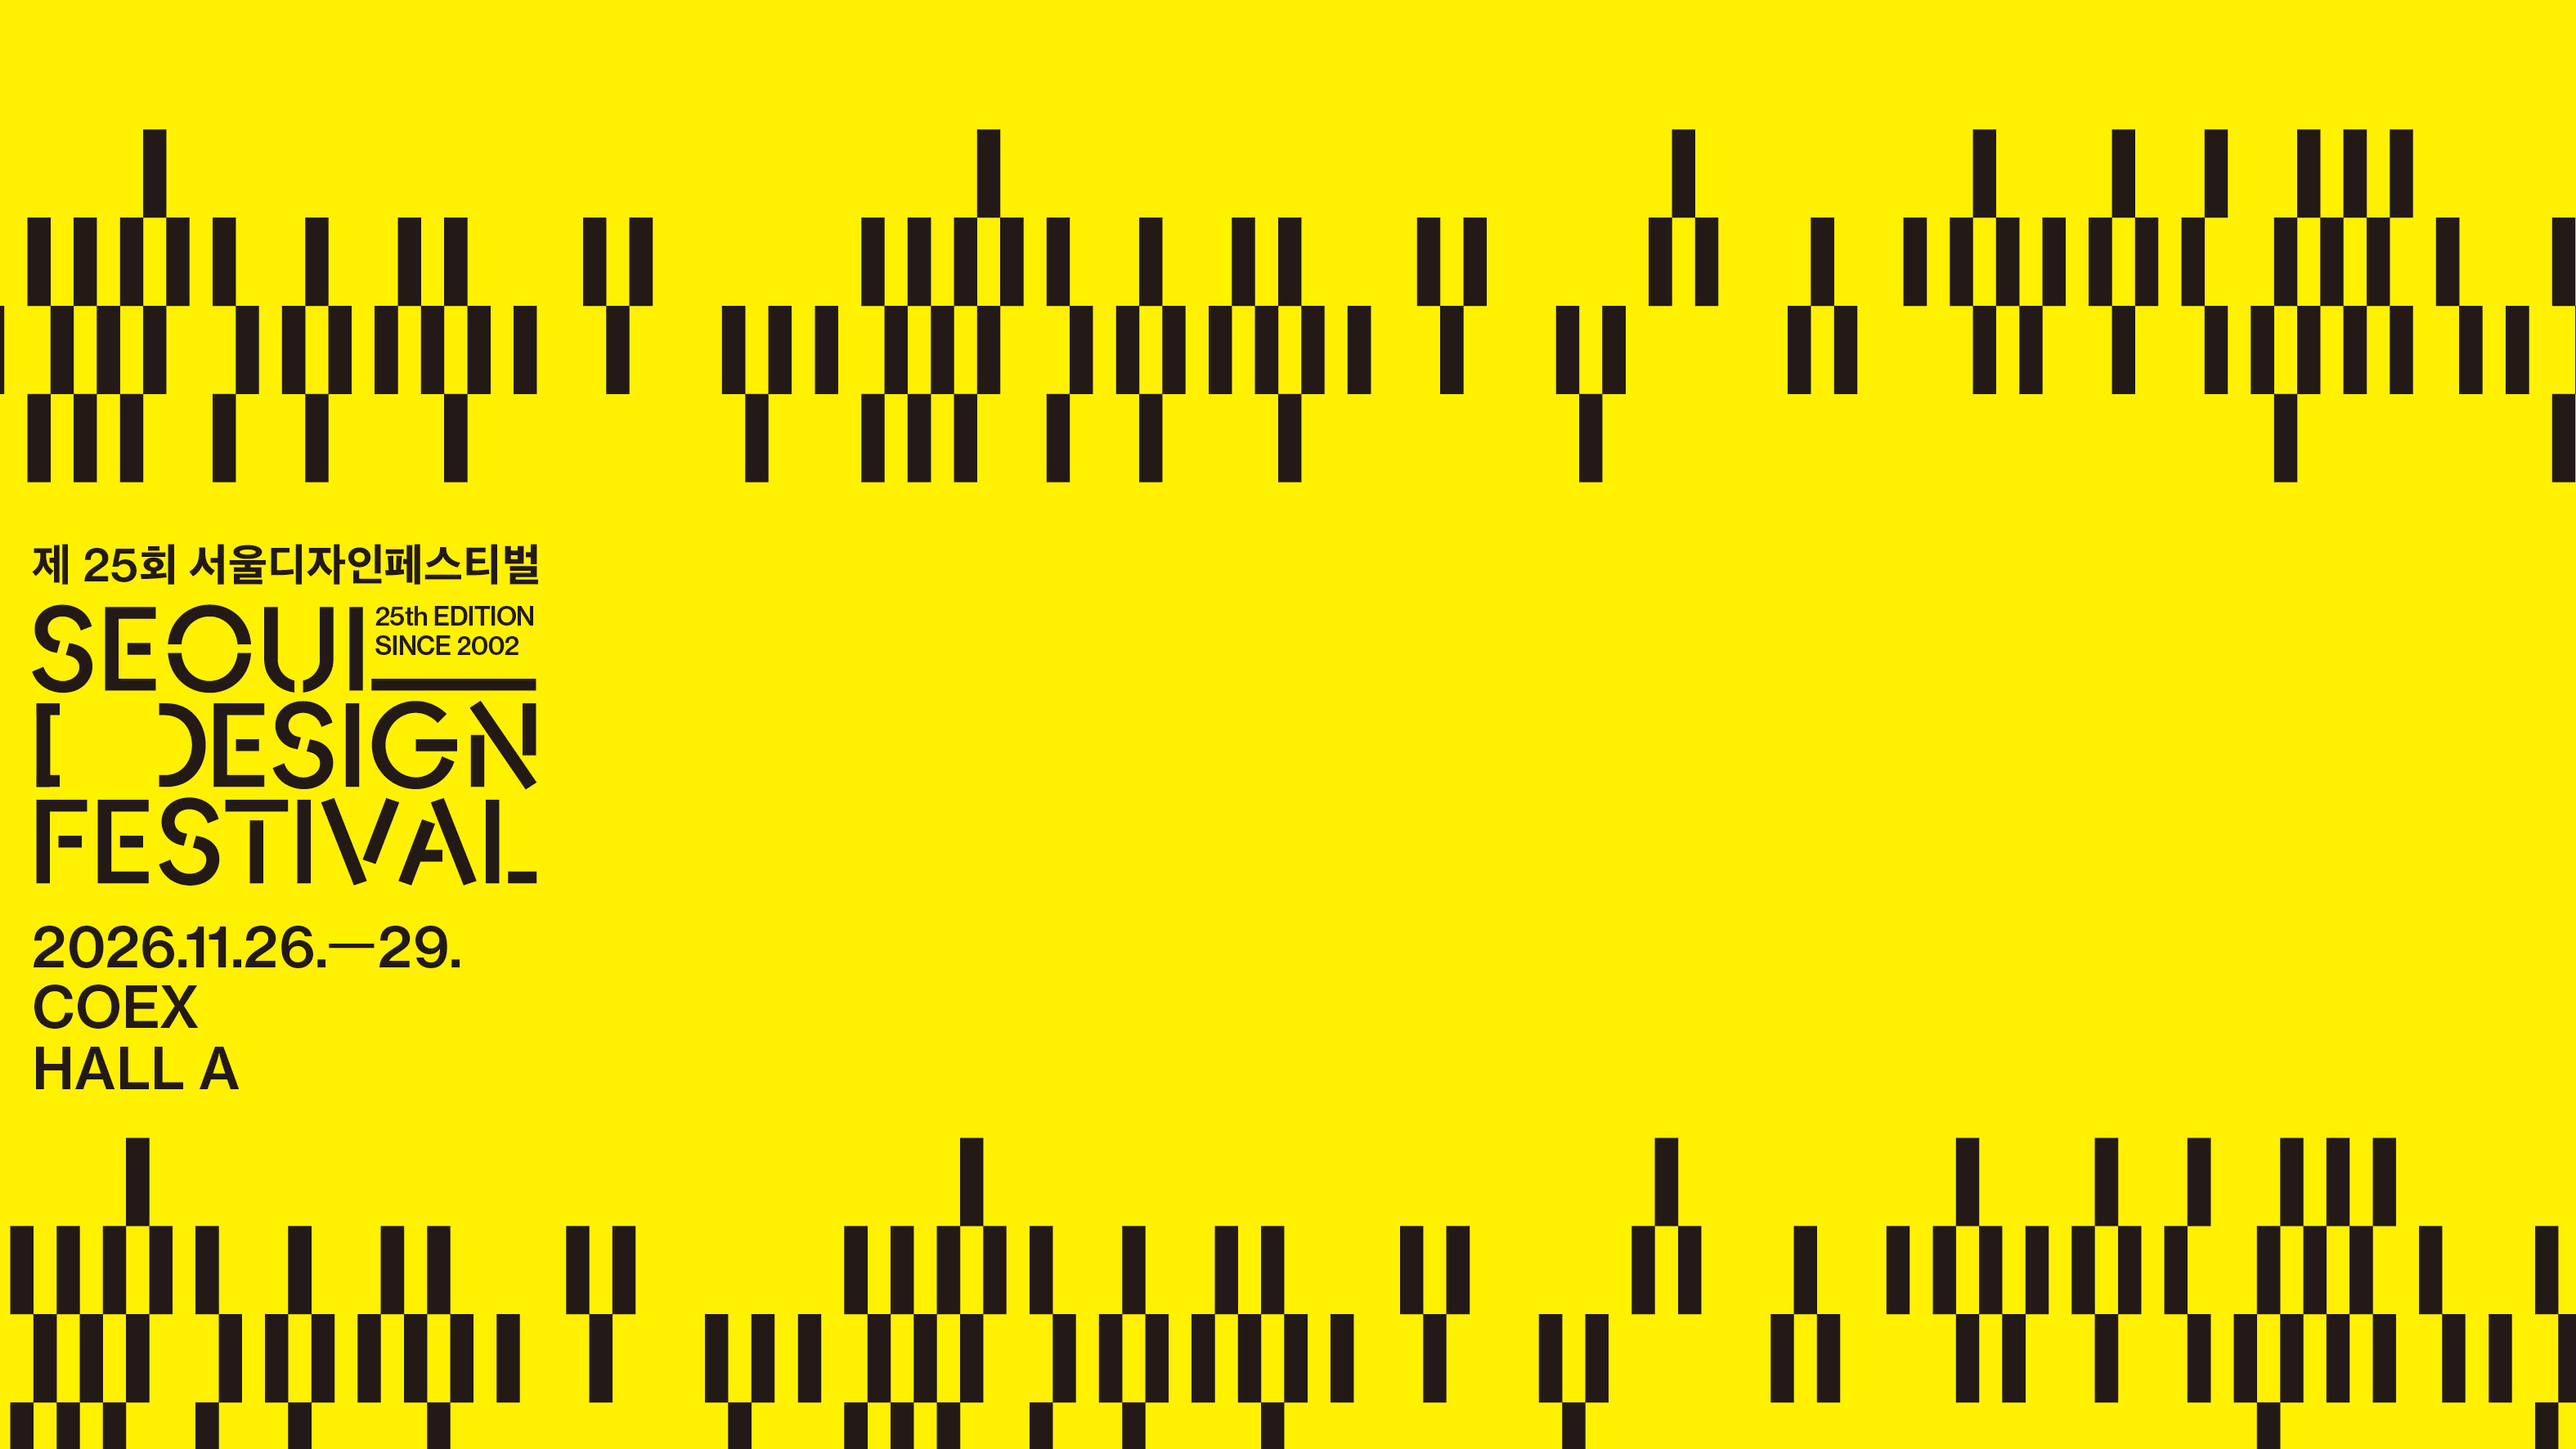
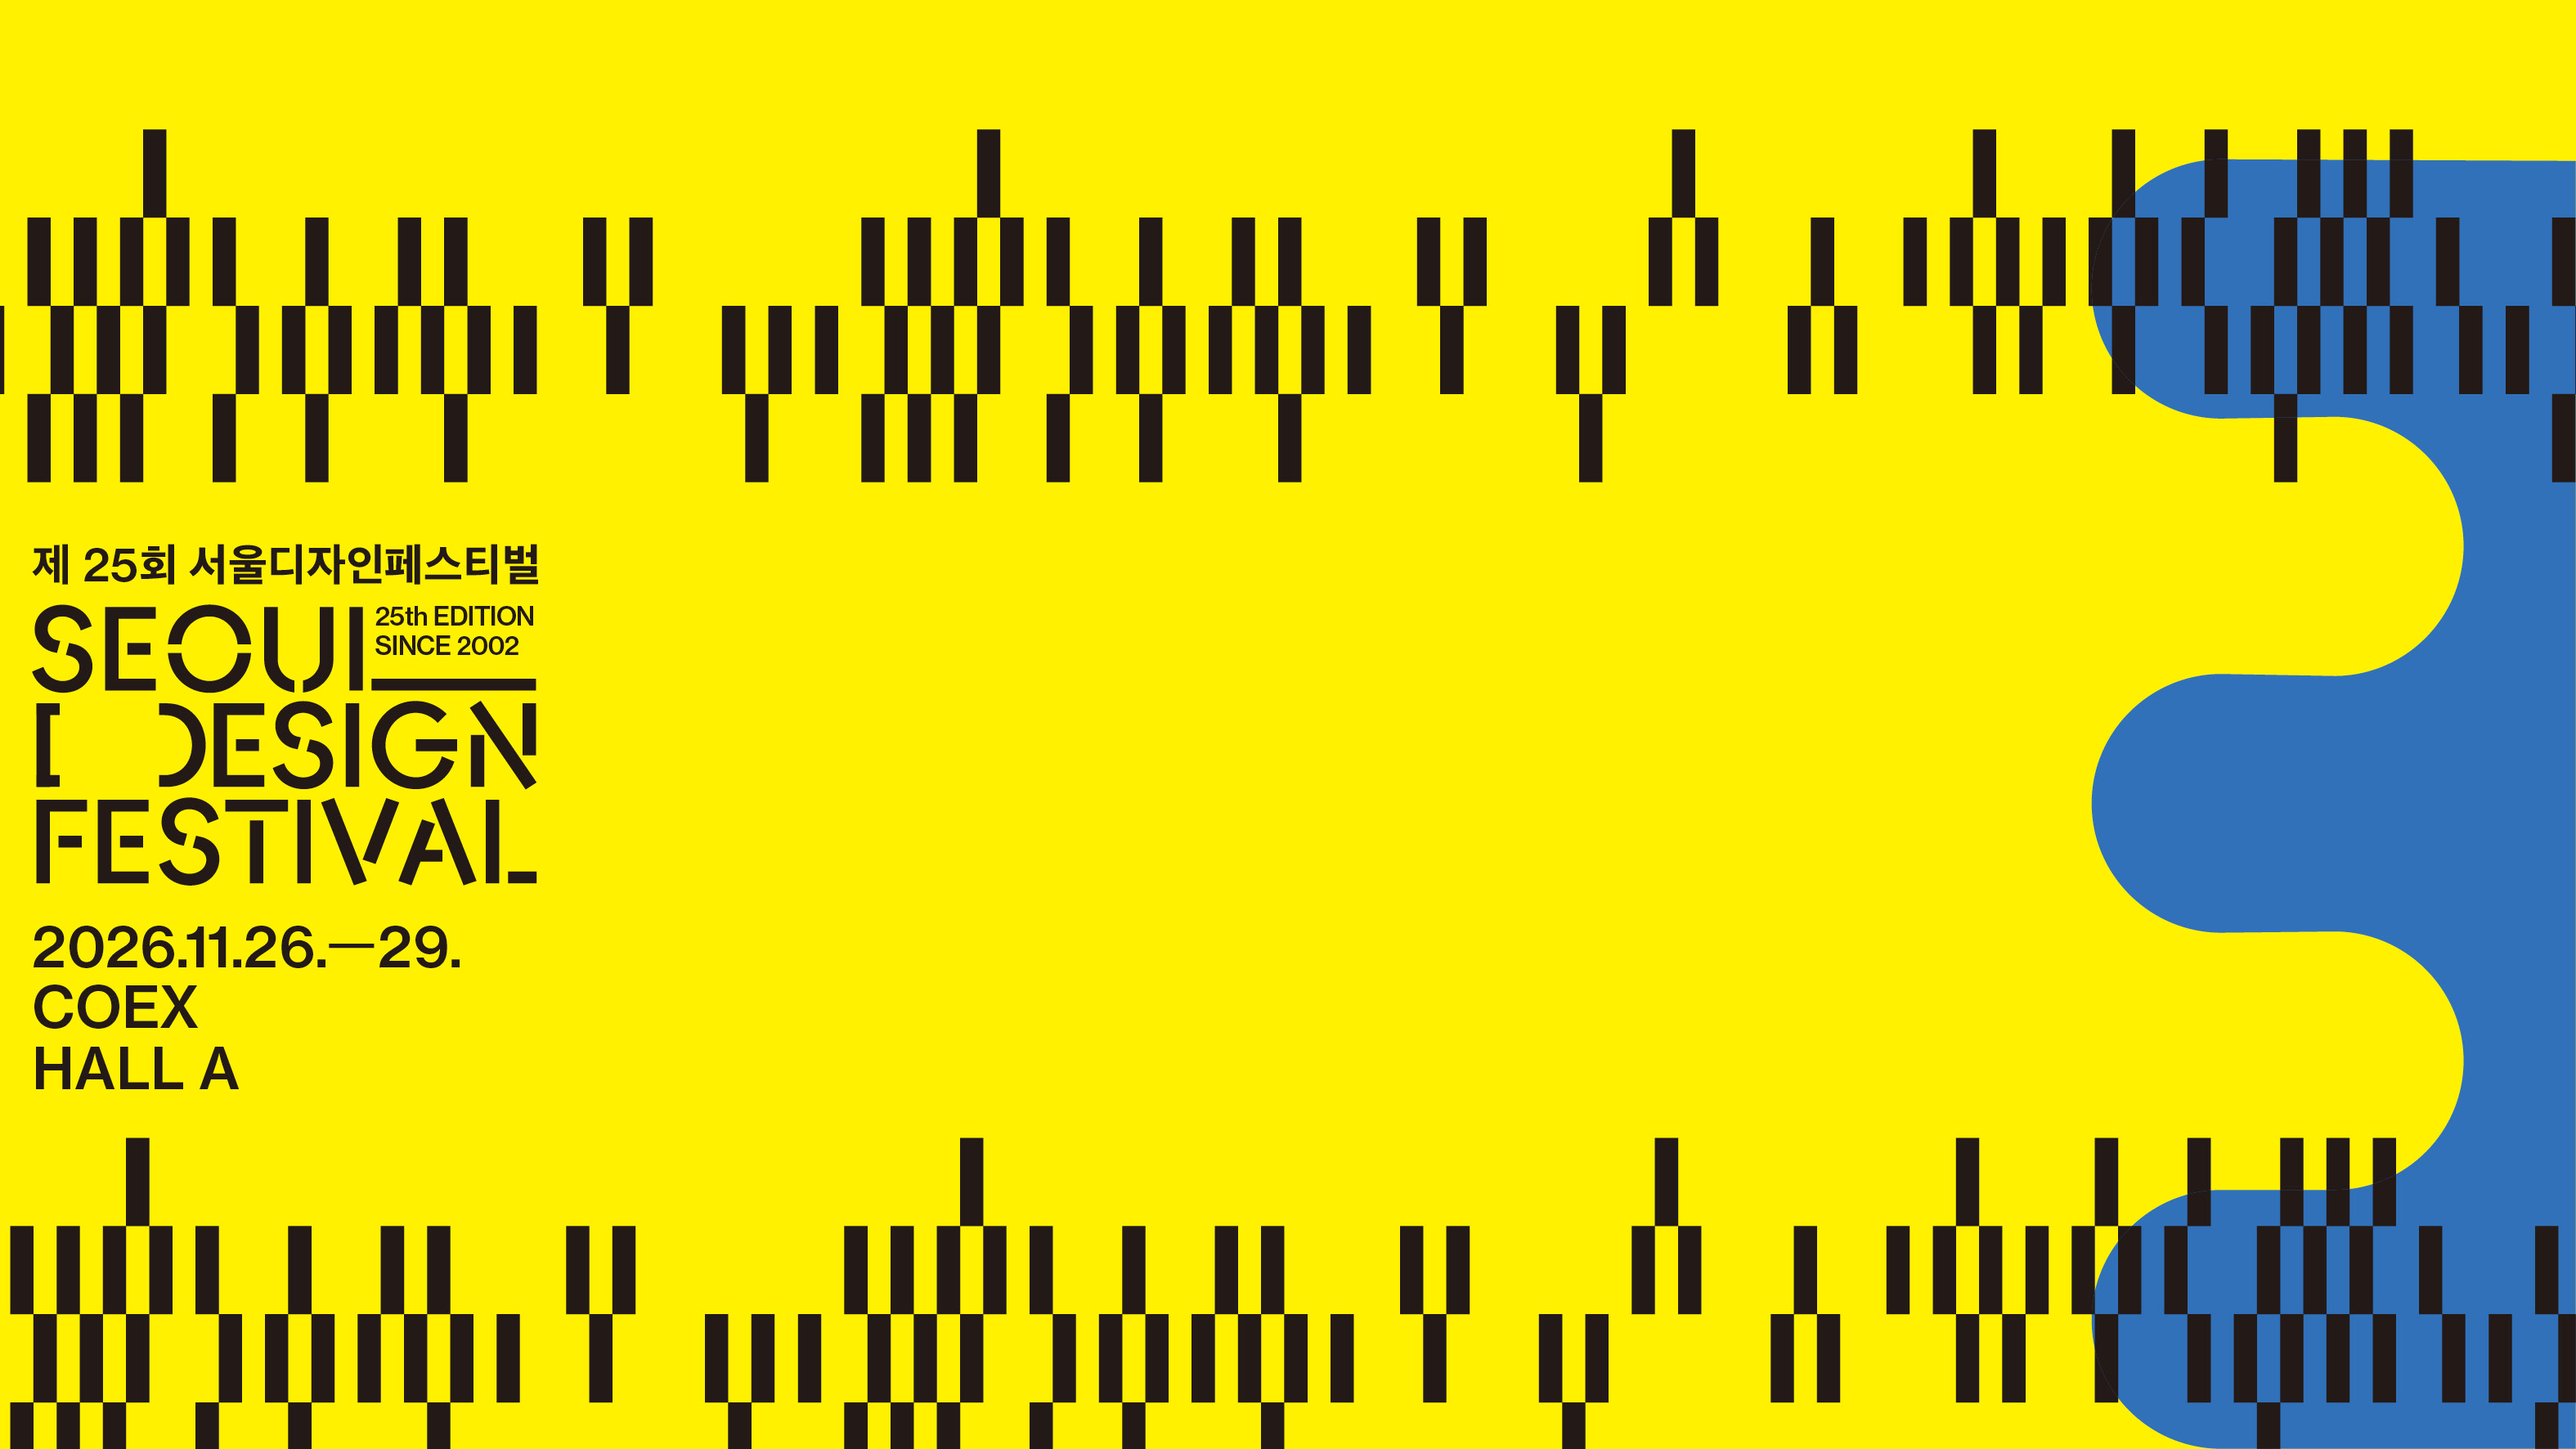
물결 기둥 파란 면 반영 (인디자인 68쪽 벽 레이어 파란 영역 포함해 D 재출력, 기둥 옆면도 파랑)

Changed region(s): [[0.8089, 0.0931, 1.0, 1.0]]

diff --git a/index.html b/index.html
@@ -184,7 +184,7 @@ html { -webkit-text-size-adjust: 100%; }
   var artMat = new THREE.MeshLambertMaterial({ color: 0x55565a });
   // each wall body takes the background colour of its own panel image (sampled after load)
   var bodyMat = {};
-  ['A', 'C', 'D', 'E', 'F'].forEach(function (id) { bodyMat[id] = new THREE.MeshLambertMaterial({ color: 0xfff100 }); });
+  ['A', 'C', 'D', 'E', 'F', 'W'].forEach(function (id) { bodyMat[id] = new THREE.MeshLambertMaterial({ color: 0xfff100 }); });
 
   var edgeMat = new THREE.LineBasicMaterial({ color: 0x8c8d90 });
   function mesh(geo, mat) {
@@ -227,7 +227,7 @@ html { -webkit-text-size-adjust: 100%; }
   var D_OUT = [[10000, 0]].concat(GEOM.void).concat([[18000, 0], [18000, 4500], [11400, 4500], [11400, 3800], [10700, 3800], [10700, 3100], [10000, 3100]]);
   slab(D_OUT, 0, 2400, bodyMat.D);
   // 물결 기둥: D 앞면에서 120 돌출, 높이 4,000
-  slab(GEOM.scallop, 2400, 2520, bodyMat.D);
+  slab(GEOM.scallop, 2400, 2520, bodyMat.W);
   // E 사이드벽: 1,800 × 3,600, 깊이 1,200
   prism([[18000, 1200], [19800, 1200], [19800, 2400], [18000, 2400]], 0, 3600, bodyMat.E);
 
@@ -314,6 +314,12 @@ html { -webkit-text-size-adjust: 100%; }
         var k = (r >> 4) + ',' + (gg >> 4) + ',' + (b >> 4), e = bins[k] || (bins[k] = { n: 0, r: 0, g: 0, b: 0 });
         e.n++; e.r += r; e.g += gg; e.b += b; if (!best || e.n > best.n) best = e;
       }
+      if (p.id === 'D') {
+        // 물결 기둥 옆면: D 이미지 오른쪽 가운데(기둥 안쪽) 색
+        var q = g.getImageData(n - 4, n / 2 - 3, 3, 6).data, sr = 0, sg = 0, sb = 0, sn = 0;
+        for (var j = 0; j < q.length; j += 4) { if (Math.max(q[j], q[j + 1], q[j + 2]) < 70) continue; sr += q[j]; sg += q[j + 1]; sb += q[j + 2]; sn++; }
+        if (sn) bodyMat.W.color.setRGB(sr / sn / 255, sg / sn / 255, sb / sn / 255).convertSRGBToLinear();
+      }
       if (!best) return;
       m.color.setRGB(best.r / best.n / 255, best.g / best.n / 255, best.b / best.n / 255).convertSRGBToLinear();
     } catch (e) {}
@@ -357,7 +363,7 @@ html { -webkit-text-size-adjust: 100%; }
 
   /* ---------- versions (InDesign exports; newest first) ---------- */
   var VERSIONS = [
-    { id: '1120', label: '11.20 최신', dir: 'panels', v: '261120b' },
+    { id: '1120', label: '11.20 최신', dir: 'panels', v: '261120c' },
     { id: '1119', label: '11.19', dir: 'versions/1119', v: '261119h' }
   ];
   var curVer = VERSIONS[0];
